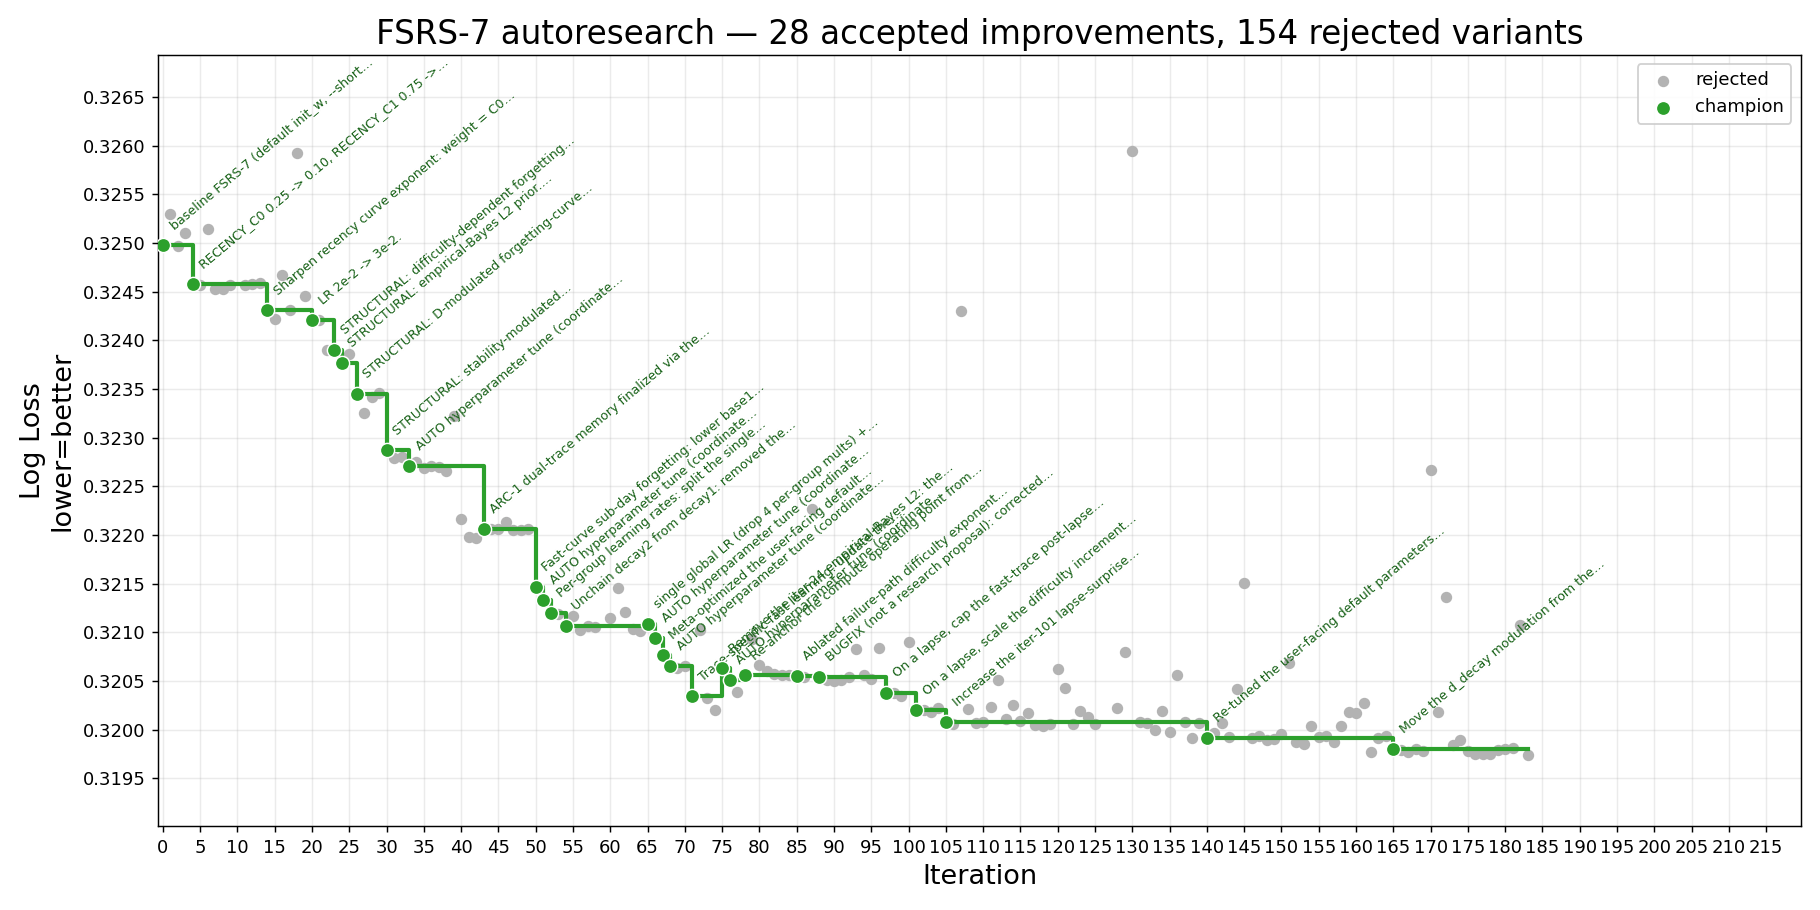
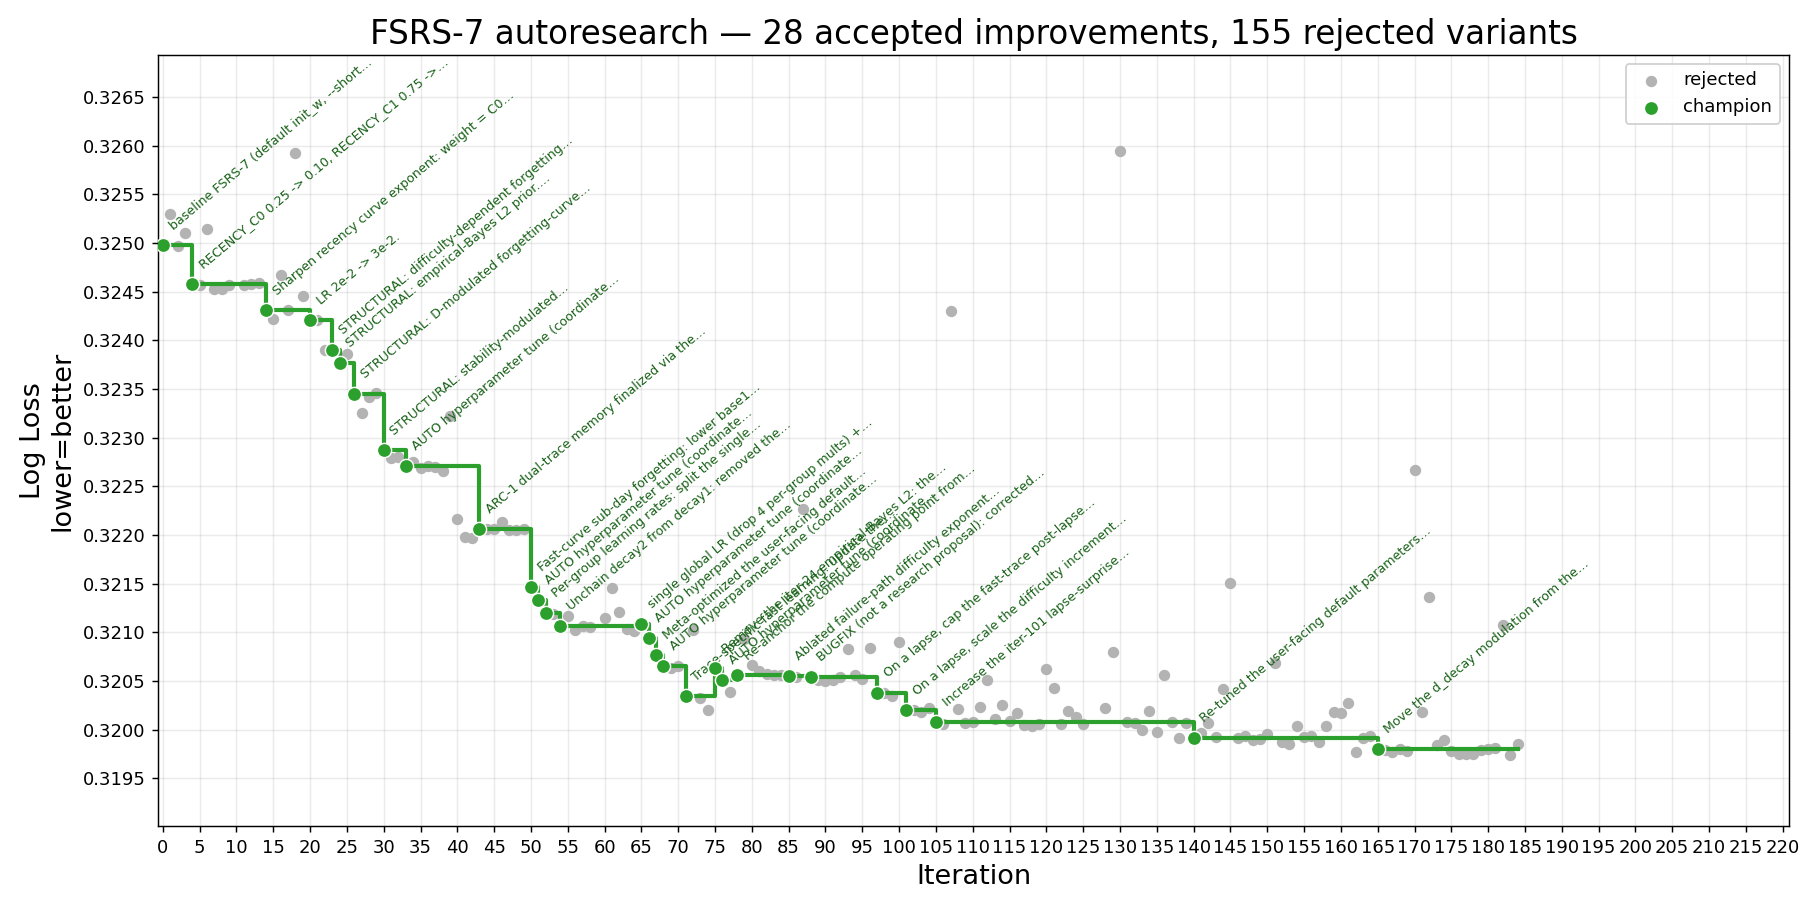
iter-184 rejected: cross-epoch gradient EMA (user probe; a=0.8 -5e-5, a=0.6 -2.4e-4, staleness bias)

diff --git a/result/history.md b/result/history.md
@@ -1,6 +1,6 @@
 # FSRS-7 autoresearch — iteration history
 
-_183 record(s). Generated from `history.jsonl` — do not edit by hand._
+_184 record(s). Generated from `history.jsonl` — do not edit by hand._
 
 | # | Time (UTC) | Thresh. | LL before | LL after | Δ LL | Cx before | Cx after | Δ Cx % | Status | Summary |
 |--:|---|---:|---:|---:|---:|---:|---:|---:|---|---|
@@ -187,3 +187,4 @@ _183 record(s). Generated from `history.jsonl` — do not edit by hand._
 | 181 | 2026-06-10T07:52:15 | 0.0000 | 0.31980 | 0.31981 | -0.00001 | 17,690 | 17,690 | +0.00% | rejected | Pure ablation: pin short-trace easy_bonus w[22] to neutral 1.0 (MIN=MAX=DEFAULT=1.0); 34->33 trainable params. |
 | 182 | 2026-06-10T07:59:21 | 0.0001 | 0.31980 | 0.32107 | -0.00127 | 17,690 | 18,498 | +4.57% | rejected | Train box-bounded params in sigmoid space (w = lo+(hi-lo)*sigmoid(u)); chained w[1..3],w[26] stay raw-clamped. 0 new params. |
 | 183 | 2026-06-10T08:15:23 | 0.0001 | 0.31980 | 0.31973 | +0.00007 | 17,690 | 17,879 | +1.07% | rejected | Decorrelate train batches: fixed seeded within-row shuffle of train_index (+matching split_review_ord); batches sample across each row's history. 0 params. |
+| 184 | 2026-06-10T08:26:26 | 0.0001 | 0.31980 | 0.31985 | -0.00005 | 17,690 | 17,892 | +1.14% | rejected | Cross-epoch per-chunk gradient EMA g_used = a*g + (1-a)*ema_prev (first epoch pass-through); sweep a in {0.8, 0.6, 0.4}. |
